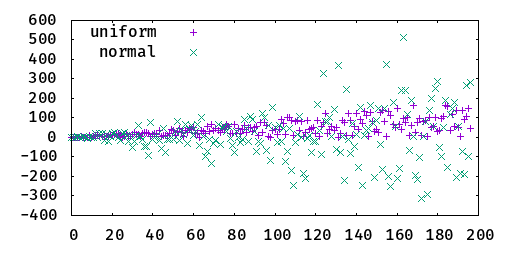
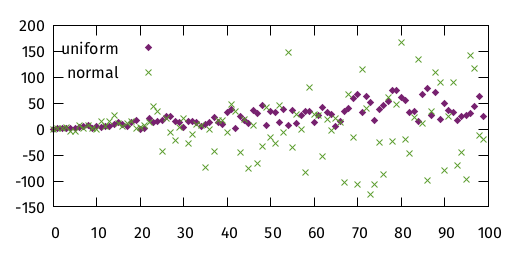
Smooth scatter plot with pngcairo

diff --git a/README.md b/README.md
@@ -55,7 +55,7 @@ Write two datasets to a PNG file:
 
 ```elixir
 {:ok, _cmd} = G.plot([
-  [:set, :term, :png], 
+  [:set, :term, :png],
   [:set, :output, "/tmp/rand.png"]
   [:set, :title, "rand uniform vs normal"],
   [:set, :key, :left, :top],
@@ -65,8 +65,8 @@ Write two datasets to a PNG file:
       ["-", :title, "normal", :with, :points])]
   ],
   [
-        for(n <- 0..200, do: [n, n * :rand.uniform()]),
-        for(n <- 0..200, do: [n, n * :rand.normal()])
+        for(n <- 0..100, do: [n, n * :rand.uniform()]),
+        for(n <- 0..100, do: [n, n * :rand.normal()])
   ])
 ```
 
